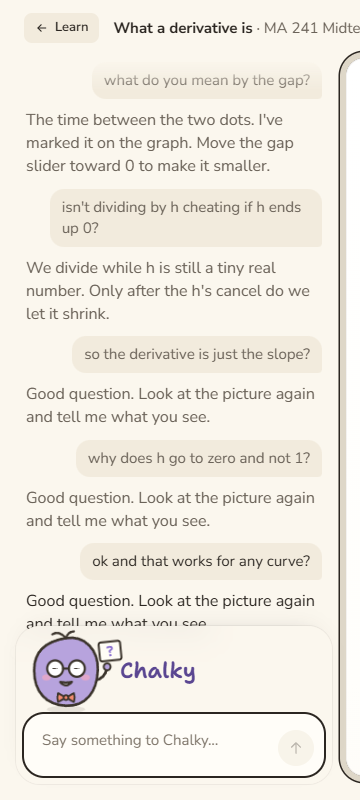
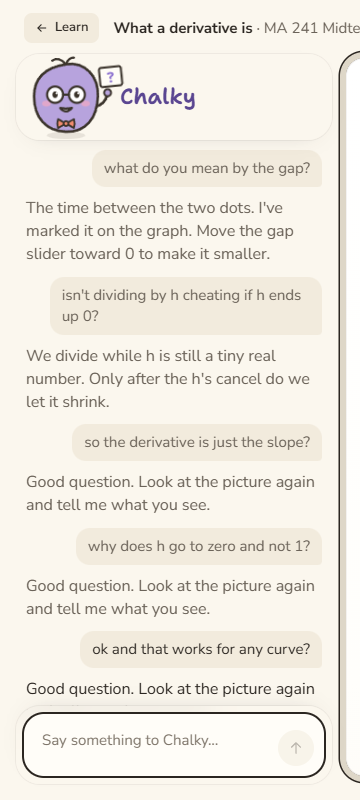
Lesson: Chalky heads the chat, on a frosted pane over it
Chalky and its name sit at the top of the conversation and the chat box
at its foot, each on a rounded, frosted pane; the conversation scrolls
under both and leaves room for their real heights.

Changed region(s): [[0.0611, 0.4375, 0.8861, 0.9062], [0.0611, 0.25, 0.8556, 0.4062], [0.0611, 0.0625, 0.8556, 0.2188]]

diff --git a/desktop/src/app/TutorScreen.tsx b/desktop/src/app/TutorScreen.tsx
@@ -70,7 +70,7 @@ export function TutorScreen({ initial, goal, courseLabel, topicTitle, lastRight,
   const [explored, setExplored] = useState<string[]>([]);
   const explore = useCallback((action: string) => setExplored(previous => [...previous.filter(item => item !== action), action].slice(-50)), []);
   const lock = useRef(false), mounted = useRef(true), revision = useRef(initial.updatedAt), messageId = useRef<string | null>(null);
-  const column = useRef<HTMLDivElement>(null), end = useRef<HTMLSpanElement>(null), talk = useRef<HTMLDivElement>(null), dock = useRef<HTMLDivElement>(null);
+  const column = useRef<HTMLDivElement>(null), end = useRef<HTMLSpanElement>(null), talk = useRef<HTMLDivElement>(null), head = useRef<HTMLDivElement>(null), dock = useRef<HTMLDivElement>(null);
   const flushDraft = useRef<() => Promise<void>>(async () => {});
   const registerFlush = useCallback((flush: () => Promise<void>) => {
     flushDraft.current = flush;
@@ -132,14 +132,17 @@ export function TutorScreen({ initial, goal, courseLabel, topicTitle, lastRight,
     if (!(document.activeElement instanceof HTMLInputElement && document.activeElement.type === "range")) end.current?.scrollIntoView({ block: "nearest", behavior: "smooth" });
   }, [added, view.at]);
   useEffect(() => { talk.current?.scrollTo({ top: talk.current.scrollHeight }); }, [view.chat.length]);
-  // The conversation leaves room under its newest message for the pane over it, which grows as you type.
+  // The conversation leaves room for the panes over its ends; the chat box grows as you type.
   useEffect(() => {
-    const pane = dock.current, list = talk.current;
-    if (!pane || !list) return;
-    const fit = new ResizeObserver(() => list.style.setProperty("--dock", `${pane.offsetHeight}px`));
-    fit.observe(pane);
+    const list = talk.current;
+    if (!list) return;
+    const fit = new ResizeObserver(() => {
+      list.style.setProperty("--head", `${head.current?.offsetHeight ?? 0}px`);
+      list.style.setProperty("--dock", `${dock.current?.offsetHeight ?? 0}px`);
+    });
+    for (const pane of [head.current, dock.current]) if (pane) fit.observe(pane);
     return () => fit.disconnect();
-  }, []);
+  }, [closed]);
 
   const pause = () => run(() => window.studi!.pauseTutorSession({ sessionId: session.sessionId }));
   const leave = async () => {
@@ -193,23 +196,21 @@ export function TutorScreen({ initial, goal, courseLabel, topicTitle, lastRight,
       </header>
       <div className="tu-wrap">
         <aside className="tu-side" aria-label="You and Chalky">
+          {/* Chalky heads the conversation and the chat box sits at its foot; both float over it, and it scrolls under them. */}
+          <div className="tu-head" ref={head}><div className="tu-who"><Character kind="chalky" size={88} state={chalky} /><b>Chalky</b></div></div>
           <div className="tu-talk" ref={talk} role="log" aria-live="polite">
             {!view.chat.length && !closed && <p className="tu-empty">Ask me anything while you work.</p>}
             {view.chat.map((item, index) => <p key={item.id} className={`${item.kind === "student" ? "tu-you" : "tu-them"}${index < lastAsked ? " is-old" : ""}`}>{item.text}</p>)}
             {unanswered && <p className="tu-empty" role="status">Chalky is thinking…</p>}
           </div>
-          {/* Chalky and the chat box float over the bottom of the conversation, which scrolls under them. */}
-          <div className="tu-dock" ref={dock}>
-          <div className="tu-who"><Character kind="chalky" size={88} state={chalky} /><b>Chalky</b></div>
-          {!closed && <form className="rd-composer inky-composer tu-say" onSubmit={event => { event.preventDefault(); void send(); }}>
+          {!closed && <div className="tu-dock" ref={dock}><form className="rd-composer inky-composer tu-say" onSubmit={event => { event.preventDefault(); void send(); }}>
             <div className="inky-composer-line">
               <textarea rows={1} aria-label="Say something to Chalky" maxLength={10000} value={message} placeholder="Say something to Chalky…"
                 onChange={event => { setMessage(event.target.value); messageId.current = null; localStorage.setItem("studi-tutor-message:" + session.sessionId, event.target.value); }}
                 onKeyDown={event => { if (event.key === "Enter" && !event.shiftKey && !event.nativeEvent.isComposing) { event.preventDefault(); void send(); } }} />
               <button className="chat-send" disabled={busy || !message.trim()} aria-label="Send message"><Icon name="send" size={17} /></button>
             </div>
-          </form>}
-          </div>
+          </form></div>}
         </aside>
         <section className="tu-board" aria-label="The board">
           <div className="tu-col" ref={column}>

diff --git a/desktop/src/app/learn.css b/desktop/src/app/learn.css
@@ -158,10 +158,12 @@ button.lr-more:hover > span { text-decoration: underline; text-decoration-color:
 /* The side chat: Chalky, the conversation, and the box to say more. */
 /* The conversation fills the panel; Chalky and the chat box sit on a frosted pane over its foot. */
 .tu-side { position: relative; display: flex; flex-direction: column; min-width: 0; min-height: 0; }
-.tu-talk { flex: 1; min-height: 0; display: flex; flex-direction: column; gap: 10px; padding: 4px 2px calc(var(--dock, 170px) + 14px); overflow-y: auto; scrollbar-width: none; -webkit-mask-image: linear-gradient(transparent, #000 32px); mask-image: linear-gradient(transparent, #000 32px); }
-.tu-dock { position: absolute; left: -8px; right: -8px; bottom: -8px; display: grid; gap: 4px; padding: 6px 8px 8px; border-radius: 24px;
+.tu-talk { flex: 1; min-height: 0; display: flex; flex-direction: column; gap: 10px; padding: calc(var(--head, 100px) + 6px) 2px calc(var(--dock, 70px) + 14px); overflow-y: auto; scrollbar-width: none; }
+.tu-head, .tu-dock { position: absolute; z-index: 1; left: -8px; right: -8px; border-radius: 24px;
   background: color-mix(in srgb, var(--paper) 70%, transparent); -webkit-backdrop-filter: blur(14px) saturate(1.1); backdrop-filter: blur(14px) saturate(1.1);
-  box-shadow: 0 0 0 1px rgb(43 38 33 / 6%), 0 -8px 24px -18px rgb(43 38 33 / 30%); }
+  box-shadow: 0 0 0 1px rgb(43 38 33 / 6%), 0 8px 24px -18px rgb(43 38 33 / 30%); }
+.tu-head { top: -4px; padding: 4px 8px; }
+.tu-dock { bottom: -8px; padding: 8px; box-shadow: 0 0 0 1px rgb(43 38 33 / 6%), 0 -8px 24px -18px rgb(43 38 33 / 30%); }
 .tu-who { display: flex; align-items: center; gap: 10px; padding-left: 4px; }
 .tu-who .character { flex: none; margin: -4px 0 -6px -6px; }
 .tu-who b { font: 700 22px/1.2 "Shantell Sans", cursive; color: var(--ink-chalky); }
@@ -319,7 +321,7 @@ textarea.tu-area:focus { box-shadow: 0 0 0 2px var(--pencil), 0 0 0 6px var(--hi
 @media (max-width: 999px) {
   .tu-wrap { grid-template-columns: minmax(0, 1fr); grid-template-rows: minmax(0, 1fr) auto; gap: 16px; padding: 8px 16px 14px; }
   .tu-side { order: 2; display: grid; grid-template-columns: 76px minmax(0, 1fr) minmax(0, 1fr); align-items: center; gap: 12px; }
-  .tu-dock { display: contents; }
+  .tu-head, .tu-dock { display: contents; }
   .tu-who { order: 1; padding: 0; }
   .tu-who b { display: none; }
   .tu-who .character { margin: 0; zoom: 0.73; }
